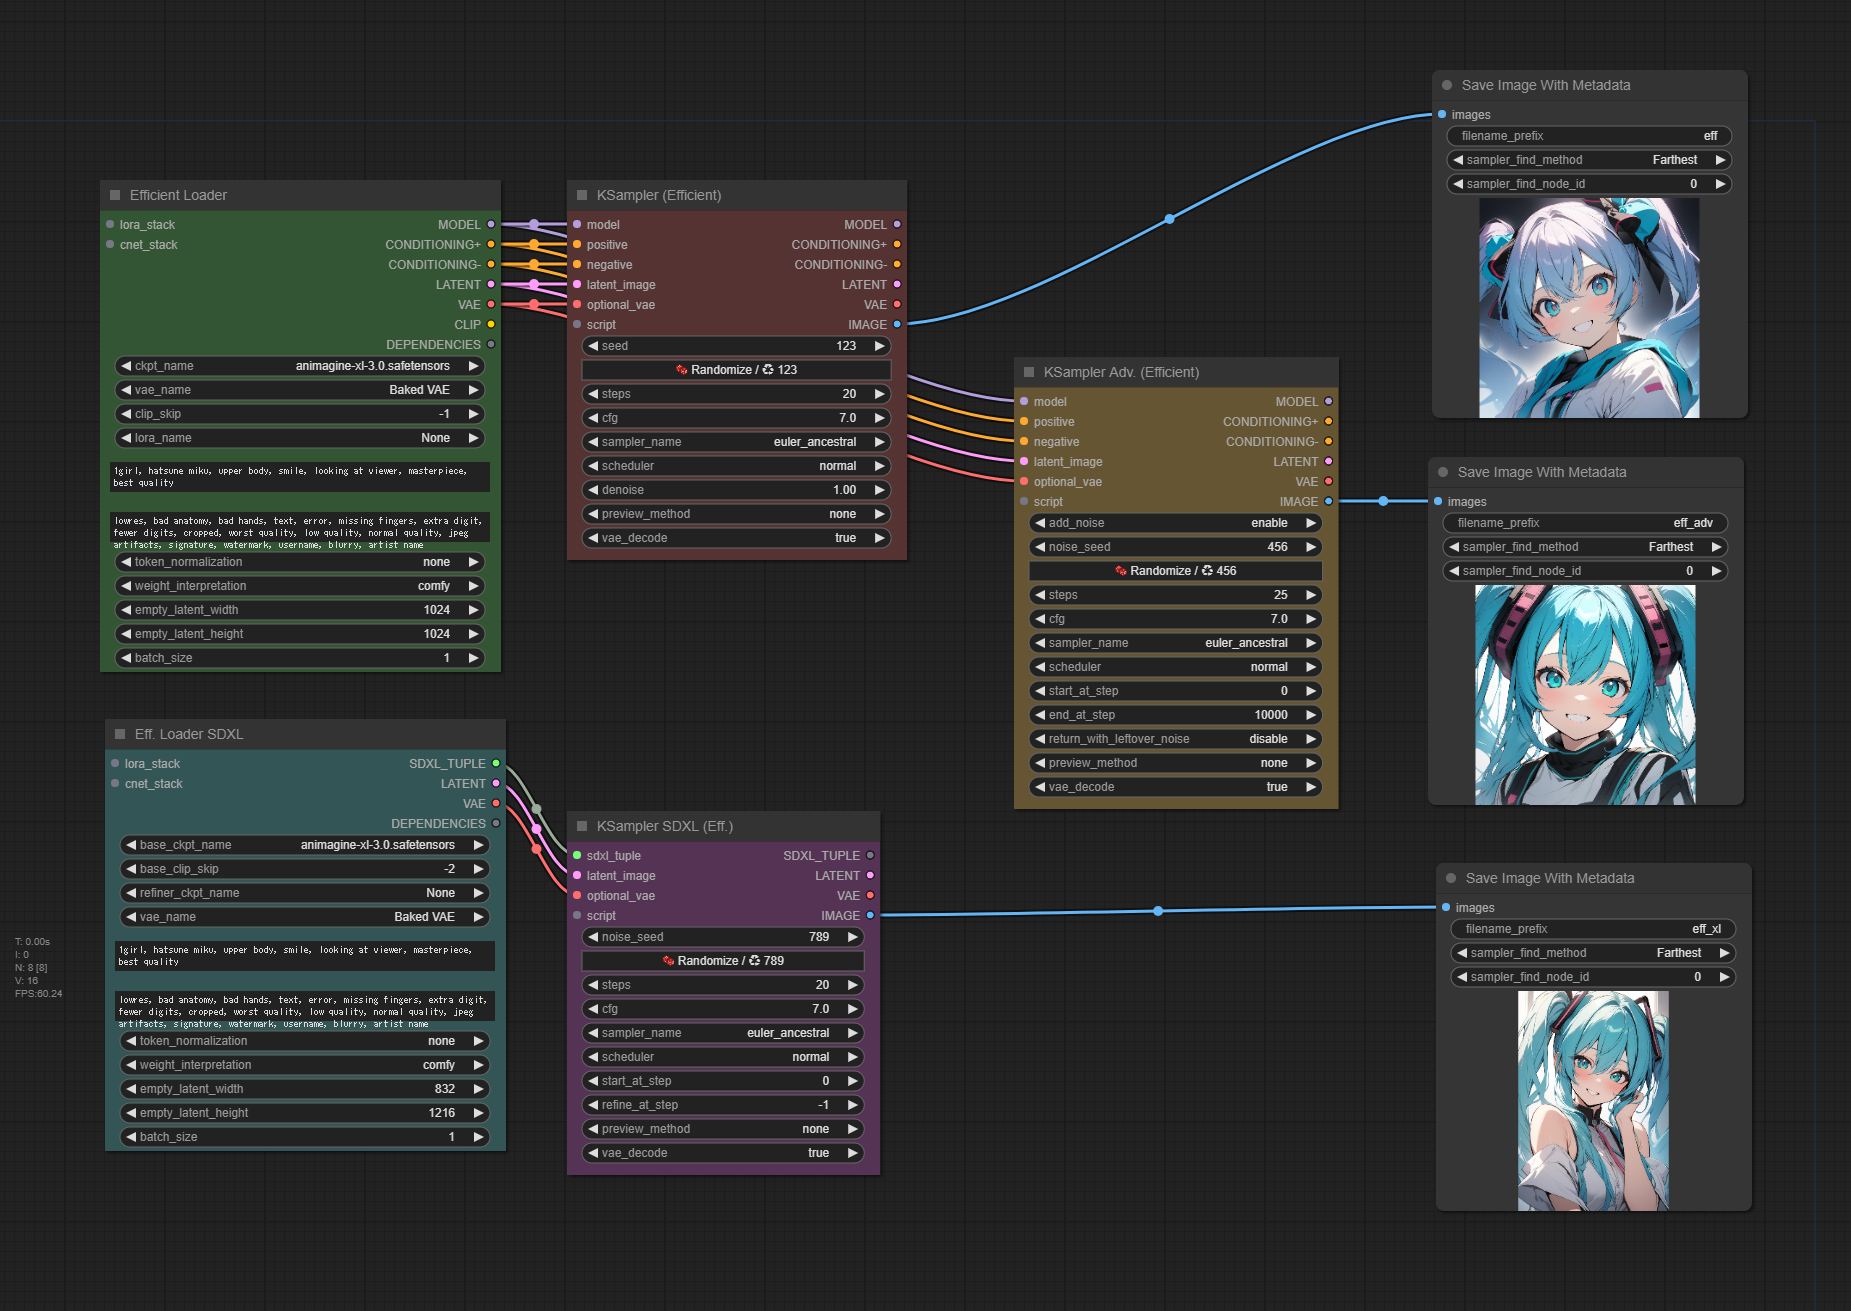
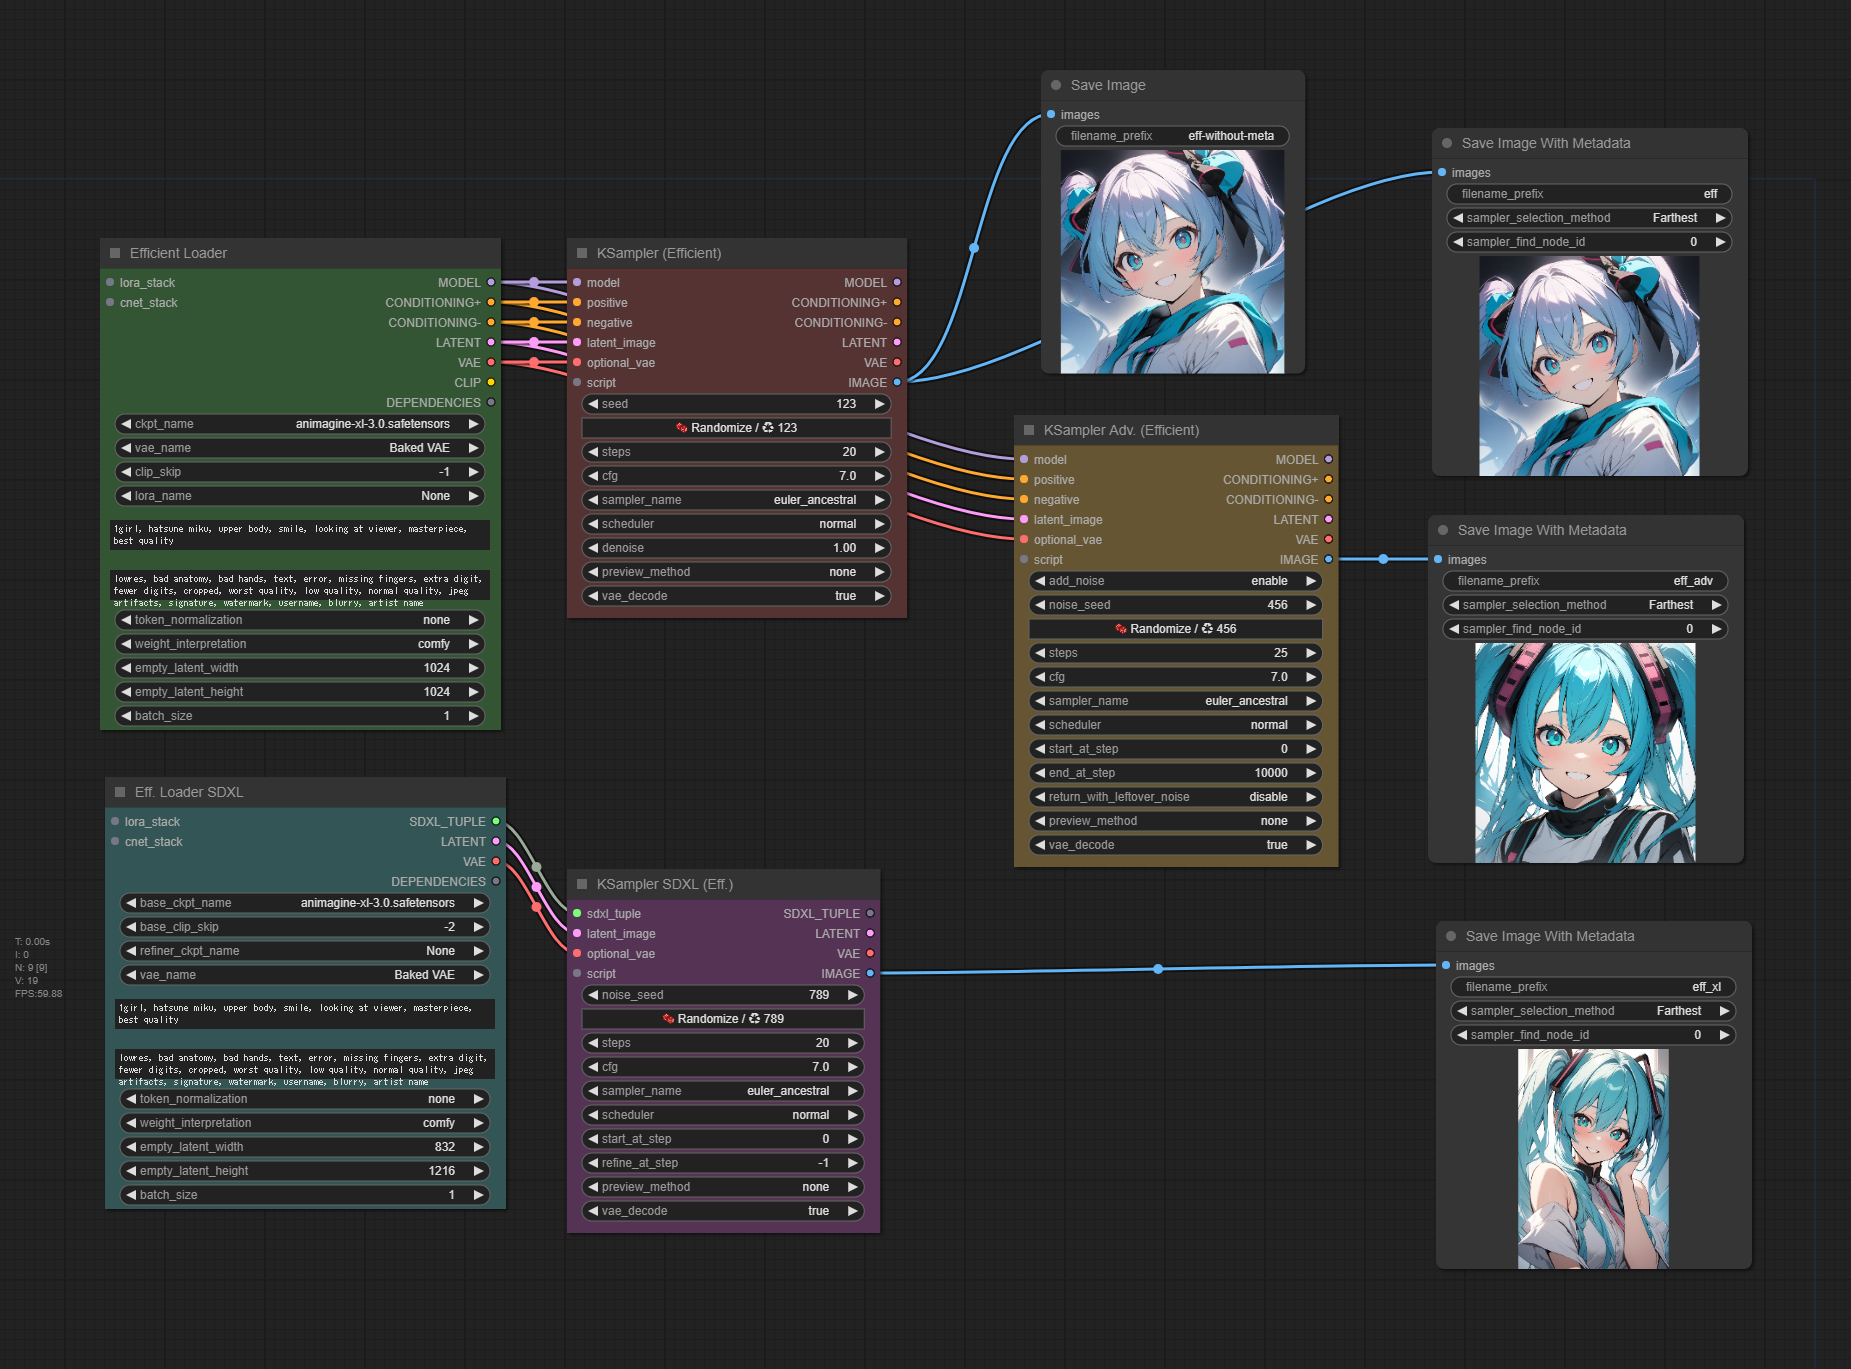
Rename to sampler selection method

diff --git a/py/nodes/node.py b/py/nodes/node.py
@@ -14,7 +14,7 @@ from ..capture import Capture
 from .. import hook
 from ..trace import Trace
 
-from ..defs.combo import SAMPLER_FIND_METHOD
+from ..defs.combo import SAMPLER_SELECTION_METHOD
 
 
 # refer. https://github.com/comfyanonymous/ComfyUI/blob/38b7ac6e269e6ecc5bdd6fefdfb2fb1185b09c9d/nodes.py#L1411
@@ -31,7 +31,7 @@ class SaveImageWithMetaData(BaseNode):
             "required": {
                 "images": ("IMAGE",),
                 "filename_prefix": ("STRING", {"default": "ComfyUI"}),
-                "sampler_find_method": (SAMPLER_FIND_METHOD,),
+                "sampler_selection_method": (SAMPLER_SELECTION_METHOD,),
                 "sampler_find_node_id": (
                     "INT",
                     {"default": 0, "min": 0, "max": 999999999, "step": 1},
@@ -49,7 +49,7 @@ class SaveImageWithMetaData(BaseNode):
         self,
         images,
         filename_prefix="ComfyUI",
-        sampler_find_method=SAMPLER_FIND_METHOD[0],
+        sampler_selection_method=SAMPLER_SELECTION_METHOD[0],
         sampler_find_node_id=0,
         prompt=None,
         extra_pnginfo=None,
@@ -68,7 +68,9 @@ class SaveImageWithMetaData(BaseNode):
             i = 255.0 * image.cpu().numpy()
             img = Image.fromarray(np.clip(i, 0, 255).astype(np.uint8))
 
-            pnginfo_dict = self.gen_pnginfo(sampler_find_method, sampler_find_node_id)
+            pnginfo_dict = self.gen_pnginfo(
+                sampler_selection_method, sampler_find_node_id
+            )
             if len(images) >= 2:
                 pnginfo_dict["Batch index"] = index
                 pnginfo_dict["Batch size"] = len(images)
@@ -100,7 +102,7 @@ class SaveImageWithMetaData(BaseNode):
         return {"ui": {"images": results}}
 
     @classmethod
-    def gen_pnginfo(cls, sampler_find_method, sampler_find_node_id):
+    def gen_pnginfo(cls, sampler_selection_method, sampler_find_node_id):
         # get all node inputs
         inputs = Capture.get_inputs()
 
@@ -109,7 +111,7 @@ class SaveImageWithMetaData(BaseNode):
             hook.current_node_id, hook.current_prompt
         )
         sampler_node_id = Trace.find_sampler_node_id(
-            trace_tree_from_this_node, sampler_find_method, sampler_find_node_id
+            trace_tree_from_this_node, sampler_selection_method, sampler_find_node_id
         )
 
         # get inputs before sampler node

diff --git a/py/trace.py b/py/trace.py
@@ -3,7 +3,7 @@ import json
 from collections import deque
 
 from .defs.samplers import SAMPLERS
-from .defs.combo import SAMPLER_FIND_METHOD
+from .defs.combo import SAMPLER_SELECTION_METHOD
 
 
 class Trace:
@@ -25,8 +25,8 @@ class Trace:
         return trace_tree
 
     @classmethod
-    def find_sampler_node_id(cls, trace_tree, sampler_find_method, node_id):
-        if sampler_find_method == SAMPLER_FIND_METHOD[2]:
+    def find_sampler_node_id(cls, trace_tree, sampler_selection_method, node_id):
+        if sampler_selection_method == SAMPLER_SELECTION_METHOD[2]:
             node_id = str(node_id)
             _, class_type = trace_tree.get(node_id, (-1, None))
             if class_type in SAMPLERS.keys():
@@ -36,7 +36,7 @@ class Trace:
         sorted_by_distance_trace_tree = sorted(
             [(k, v[0], v[1]) for k, v in trace_tree.items()],
             key=lambda x: x[1],
-            reverse=(sampler_find_method == SAMPLER_FIND_METHOD[0]),
+            reverse=(sampler_selection_method == SAMPLER_SELECTION_METHOD[0]),
         )
         for nid, _, class_type in sorted_by_distance_trace_tree:
             if class_type in SAMPLERS.keys():

diff --git a/py/defs/combo.py b/py/defs/combo.py
@@ -1,1 +1,1 @@
-SAMPLER_FIND_METHOD = ["Farthest", "Nearest", "By node ID"]
+SAMPLER_SELECTION_METHOD = ["Farthest", "Nearest", "By node ID"]
